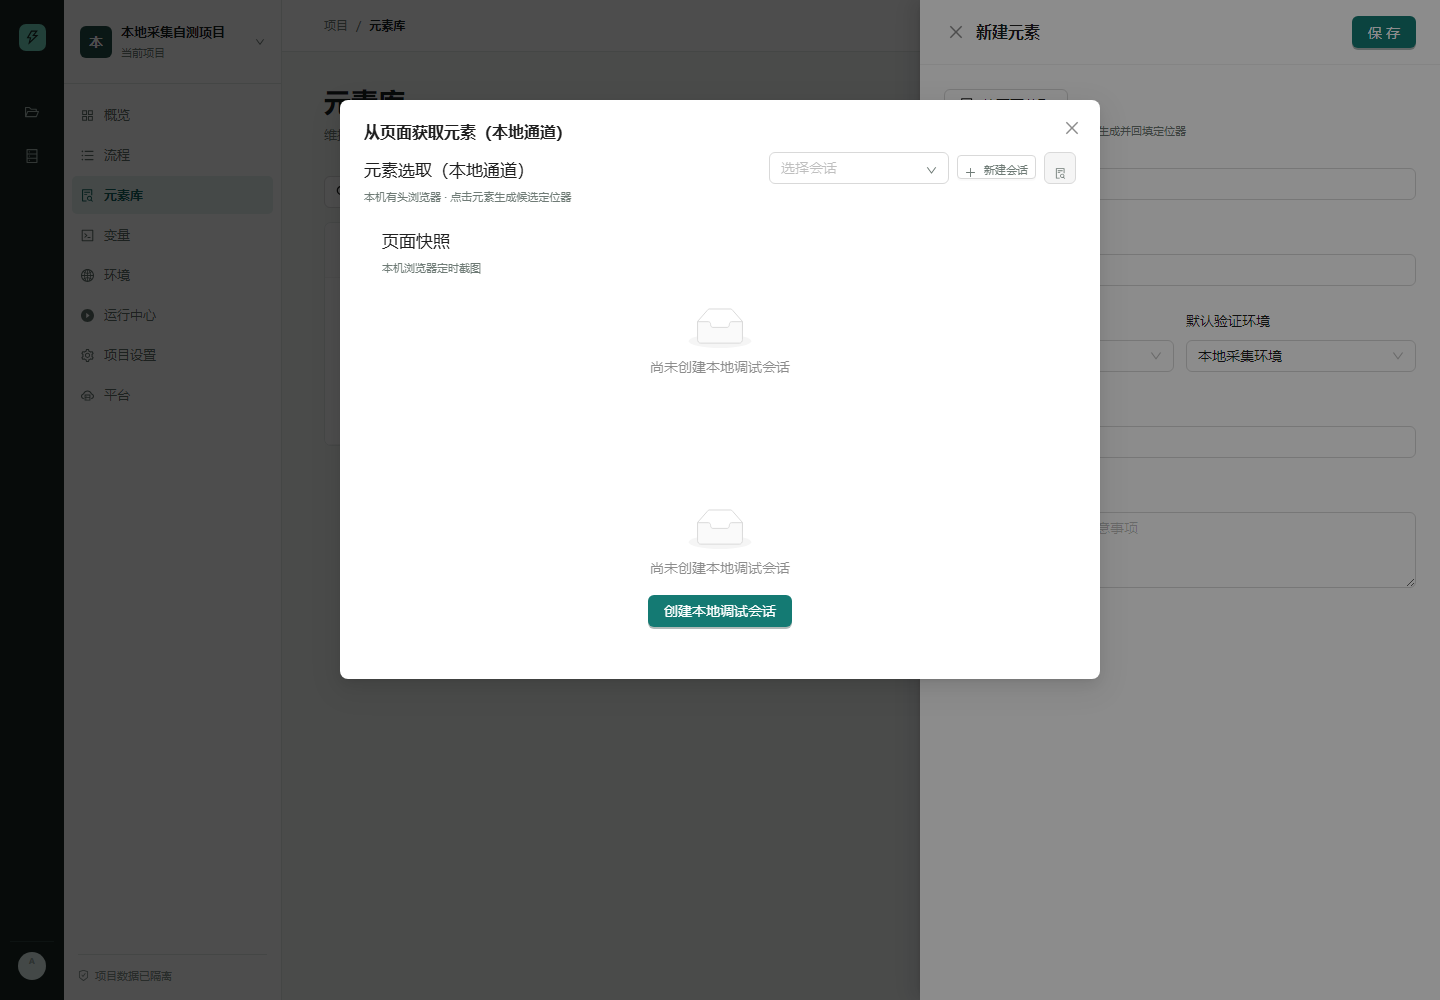
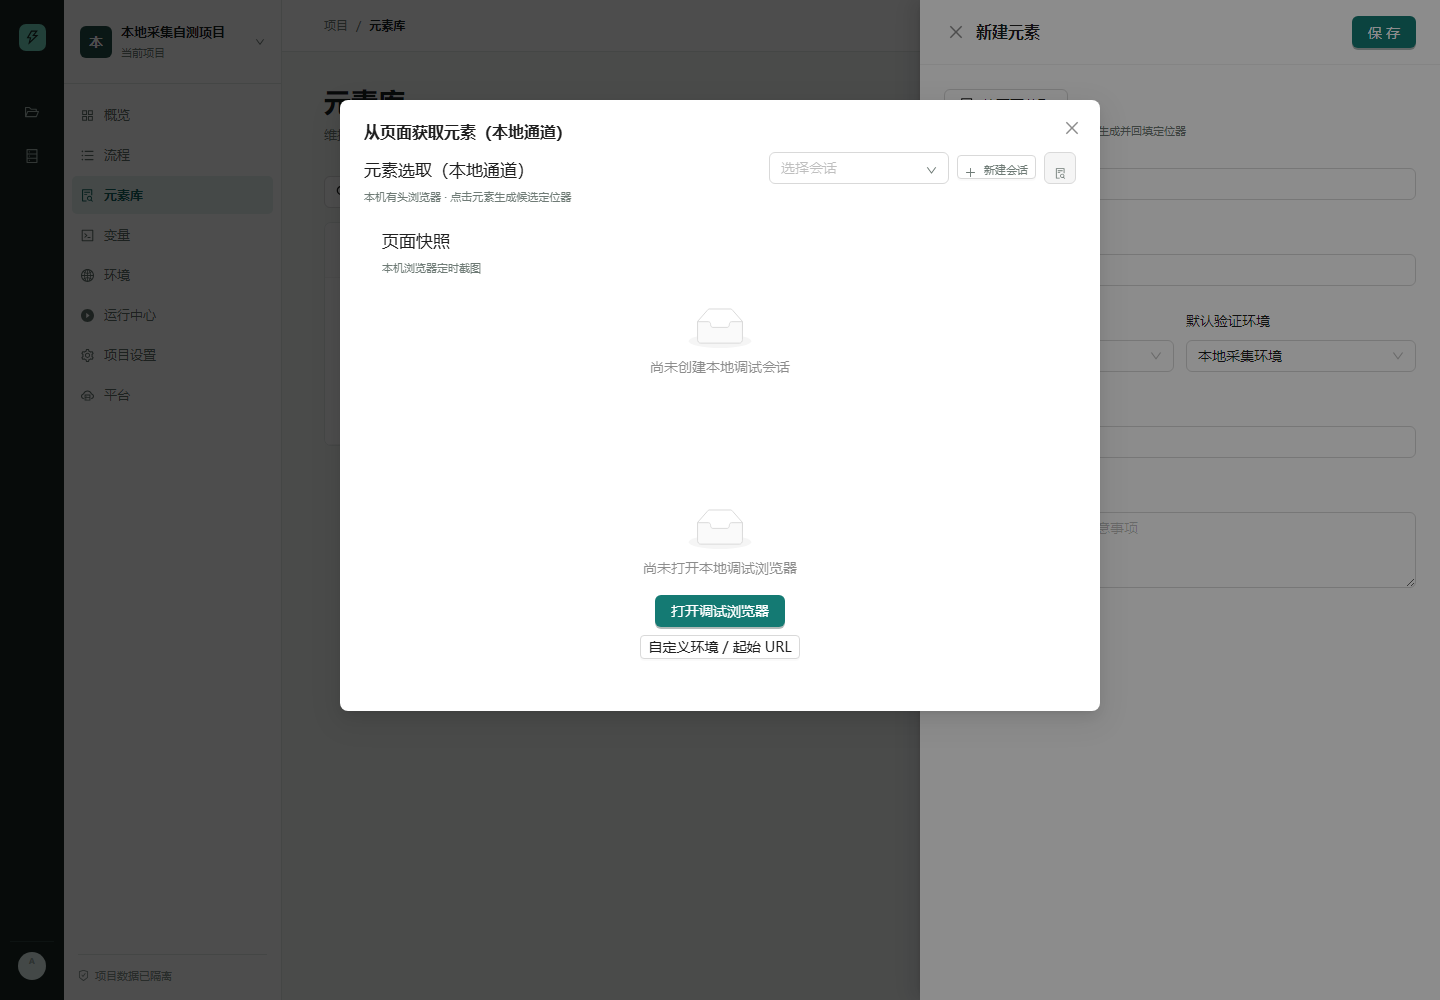
调整: 本地通道「从页面获取」改为点击弹窗内「打开调试浏览器」才启动浏览器
- 移除本地采集面板打开即自动创建会话的逻辑（打开弹窗不再自动拉起浏览器）
- 弹窗空态显示「打开调试浏览器」主按钮（+ 自定义环境/起始 URL 副入口），
  用户显式点击后才创建/复用本机会话；已有会话时服务端复用，不会重复打开
- 更新单测：打开弹窗不自动创建（createLocalPickerSession 不被调用），
  点击按钮后才创建并展示等待点击状态；自测脚本同步改为点击按钮
- 本地采集闭环自测复跑通过（点击后单会话 picker_*）
- lint/build/test:unit(56)/test:platform/test:worker/test:agent/test:e2e(27) 通过

Changed region(s): [[0.2188, 0.558, 0.7812, 0.713]]

diff --git a/src/pages/LocalElementPickerPanel.tsx b/src/pages/LocalElementPickerPanel.tsx
@@ -15,7 +15,7 @@ import type { LocalPickerCapture, LocalPickerSession as WorkerLocalPickerSession
 import { useWorkspaceStore } from "../workspace-store";
 import { CheckCircleFilled, FileSearchOutlined, PlusOutlined } from "@ant-design/icons";
 import { Alert, Button, Empty, Form, Input, Modal, Select, Space, Spin, Tooltip } from "antd";
-import { useCallback, useEffect, useRef, useState } from "react";
+import { useCallback, useEffect, useState } from "react";
 
 export type LocalPickerSelection = {
   captureId: string;
@@ -48,9 +48,7 @@ export function LocalElementPickerPanel({
   const [sessions, setSessions] = useState<WorkerLocalPickerSession[]>([]);
   const [captures, setCaptures] = useState<LocalPickerCapture[]>([]);
   const [managedSessionId, setManagedSessionId] = useState<string>();
-  // 防止并发/反复自动创建：同一面板实例对同一环境只允许一个创建请求在途；
-  // 服务端对（项目, 环境）的并发创建去重并复用已完成会话，因此这里不需要防重试集合。
-  const autoCreateInFlight = useRef<string | undefined>(undefined);
+  // 打开调试浏览器由用户显式点击触发（不再随弹窗打开自动创建）。
   const [creating, setCreating] = useState(false);
   const [internalCreateOpen, setInternalCreateOpen] = useState(false);
   const [screenshotStamp, setScreenshotStamp] = useState(0);
@@ -112,30 +110,21 @@ export function LocalElementPickerPanel({
     return () => clearInterval(interval);
   }, [loadCaptures]);
 
-  // 自动创建/复用当前环境的本地调试会话（即「从页面获取」打开浏览器）。
-  // 立即创建并用 ref 保证同一环境只有一个创建请求在途：轮询重渲染不再取消定时器，
-  // 避免“定时器被清理后因防重集合而永不创建”或并发调度拉起多个浏览器。
-  useEffect(() => {
-    if (workerState !== "online" || !effectiveEnvironment) return;
-    if (autoCreateInFlight.current) return;
-    if (sessions.some((item) => item.environmentId === effectiveEnvironment.id)) return;
-    autoCreateInFlight.current = effectiveEnvironment.id;
-    let cancelled = false;
-    void (async () => {
-      try {
-        const result = await createLocalPickerSession(project.id, effectiveEnvironment);
-        if (cancelled) return;
-        setManagedSessionId(result.session.id);
-        await loadSessions();
-        message.success("本地调试浏览器正在准备");
-      } catch {
-        if (!cancelled) message.error("无法启动本地调试浏览器，请确认本机执行服务可用");
-      } finally {
-        if (!cancelled) autoCreateInFlight.current = undefined;
-      }
-    })();
-    return () => { cancelled = true; };
-  }, [effectiveEnvironment, loadSessions, project.id, sessions, workerState]);
+  // 显式打开（或复用）当前环境的本地调试浏览器；已有会话时服务端复用，不会重复打开。
+  const openBrowser = async () => {
+    if (workerState !== "online" || !effectiveEnvironment || creating) return;
+    setCreating(true);
+    try {
+      const result = await createLocalPickerSession(project.id, effectiveEnvironment);
+      setManagedSessionId(result.session.id);
+      await loadSessions();
+      message.success("本地调试浏览器正在准备");
+    } catch {
+      message.error("无法启动本地调试浏览器，请确认本机执行服务可用");
+    } finally {
+      setCreating(false);
+    }
+  };
 
   const enablePicker = async () => {
     if (workerState !== "online" || !selectedSession) return;
@@ -249,8 +238,11 @@ export function LocalElementPickerPanel({
         )}
       </div>
       {!selectedSession ? (
-        <Empty image={Empty.PRESENTED_IMAGE_SIMPLE} description="尚未创建本地调试会话">
-          <Button type="primary" onClick={openCreate}>创建本地调试会话</Button>
+        <Empty image={Empty.PRESENTED_IMAGE_SIMPLE} description="尚未打开本地调试浏览器">
+          <Space direction="vertical">
+            <Button type="primary" loading={creating} onClick={() => void openBrowser()}>打开调试浏览器</Button>
+            <Button size="small" onClick={openCreate}>自定义环境 / 起始 URL</Button>
+          </Space>
         </Empty>
       ) : !latestCapture ? (
         <Empty image={Empty.PRESENTED_IMAGE_SIMPLE} description="等待浏览器点击" />

diff --git a/src/pages/local-element-picker-panel.test.tsx b/src/pages/local-element-picker-panel.test.tsx
@@ -62,7 +62,7 @@ describe("LocalElementPickerPanel 本地采集通道", () => {
     expect(screen.getByText(/npm run server/)).toBeTruthy();
   });
 
-  it("本机服务在线时自动创建会话并展示等待点击状态", async () => {
+  it("打开弹窗不自动创建，点击「打开调试浏览器」后才创建会话", async () => {
     workerApi.getWorkerHealth.mockResolvedValue({ ok: true });
     const sessionRecord = { id: "session-1", projectId: "p-1", environmentId: "env-1", environmentName: "测试环境", currentUrl: "https://example.test/", status: "active", captureCount: 0, hasScreenshot: false };
     workerApi.getLocalPickerSessions
@@ -70,7 +70,13 @@ describe("LocalElementPickerPanel 本地采集通道", () => {
       .mockResolvedValue({ sessions: [sessionRecord] });
     workerApi.createLocalPickerSession.mockResolvedValue({ session: sessionRecord });
     workerApi.getLocalPickerCaptures.mockResolvedValue({ captures: [] });
+    const user = userEvent.setup();
     render(<LocalElementPickerPanel project={project} preferredEnvironmentId="env-1" />);
+    // 弹窗打开后不应自动创建会话
+    await waitFor(() => expect(screen.getByRole("button", { name: "打开调试浏览器" })).toBeTruthy(), { timeout: 4_000 });
+    expect(workerApi.createLocalPickerSession).not.toHaveBeenCalled();
+    // 用户显式点击后才创建并展示等待点击状态
+    await user.click(screen.getByRole("button", { name: "打开调试浏览器" }));
     await waitFor(() => expect(screen.getByText("等待浏览器点击")).toBeTruthy(), { timeout: 4_000 });
     expect(workerApi.createLocalPickerSession).toHaveBeenCalledWith("p-1", environment);
   });

diff --git a/server/selftest-local-picker.ts b/server/selftest-local-picker.ts
@@ -119,13 +119,8 @@ try {
   await screenshot("L2-local-picker-modal.png");
   log("local picker modal opened; modal text: " + JSON.stringify((await modal.innerText()).slice(0, 200)));
 
-  // 等待本地会话自动创建并导航到站点（附带诊断）
-  for (let i = 0; i < 10; i += 1) {
-    const list = await api<{ sessions: Array<{ id: string; currentUrl: string }> }>("/api/projects/self/local-picker/sessions");
-    log("SESSIONS POLL: " + JSON.stringify(list.body.sessions.map((s) => ({ id: s.id.slice(0, 8), url: s.currentUrl }))));
-    log("MODAL TEXT: " + JSON.stringify((await modal.innerText()).slice(0, 200)));
-    await new Promise((r) => setTimeout(r, 2000));
-  }
+  // 用户显式点击弹窗内「打开调试浏览器」后才创建本机会话并导航到站点
+  await modal.getByRole("button", { name: "打开调试浏览器" }).click();
   const session = await waitFor(async () => {
     const list = await api<{ sessions: Array<{ id: string; currentUrl: string }> }>("/api/projects/self/local-picker/sessions");
     return list.body.sessions.find((item) => (item.currentUrl ?? "").includes("huang1997.cloud"));
